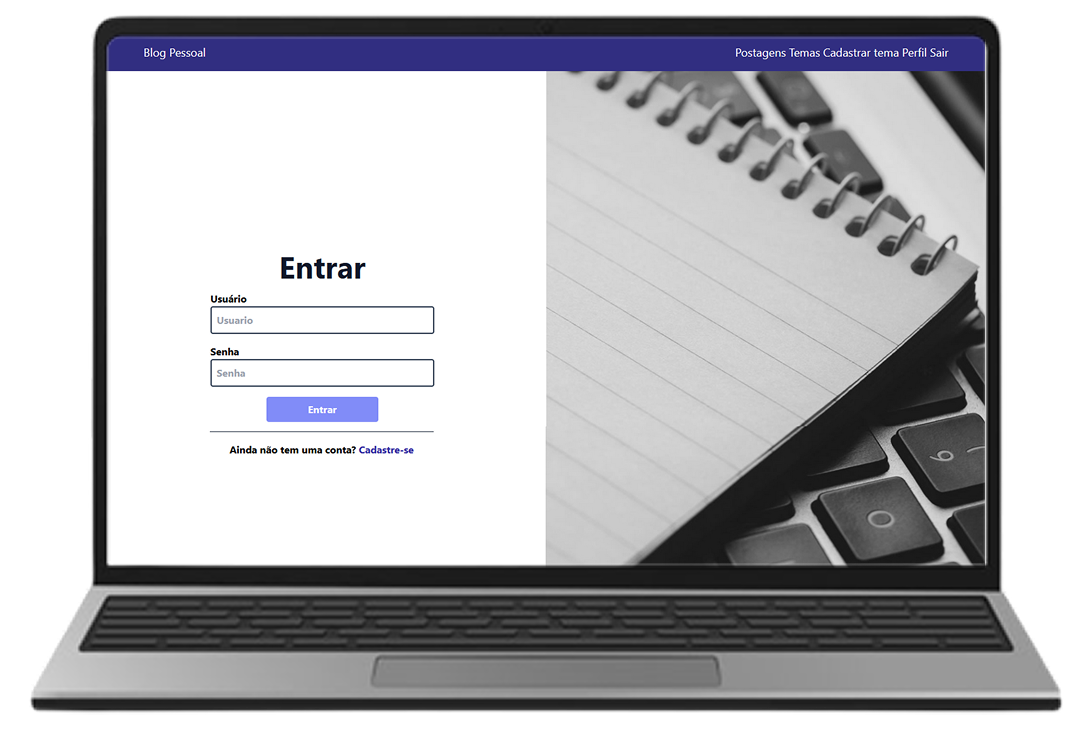
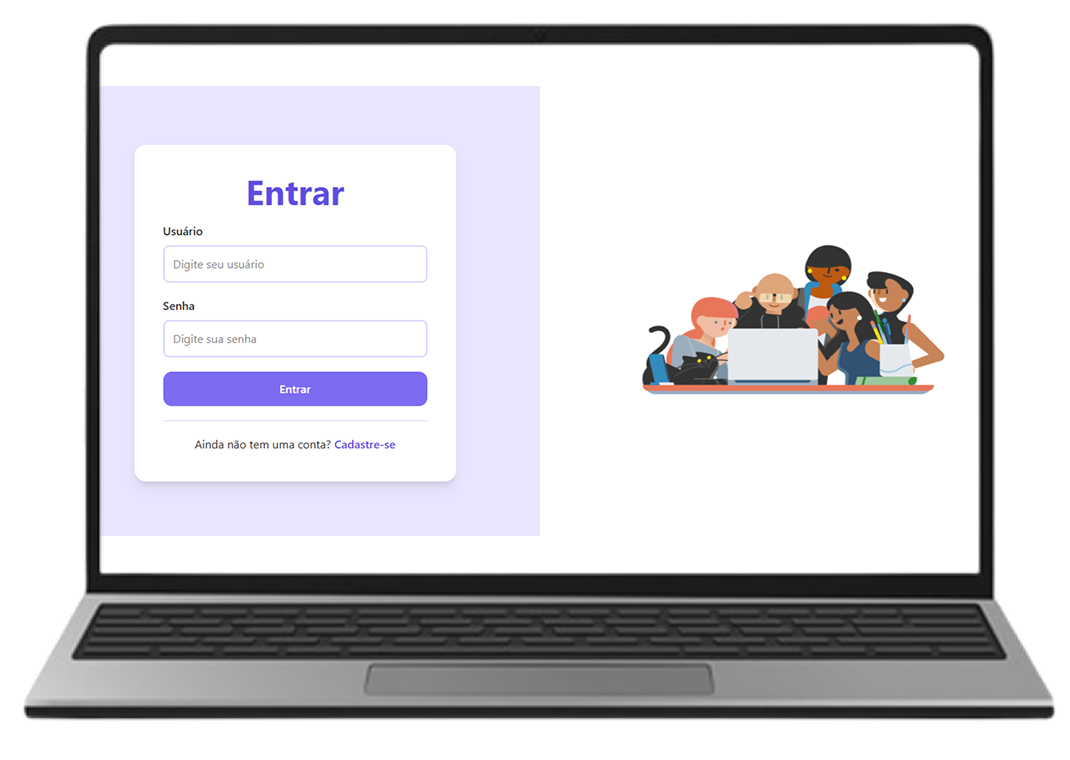
deploy do projeto atualizado

diff --git a/index.html b/index.html
@@ -292,7 +292,8 @@
                                         GitHub
                                     </a>
 
-                                    <a href="#" class="botao" onclick="deployEmDesenvolvimento(event)">
+                                    <a href="https://react-blogpessoal-three.vercel.app/" class="botao" target="_blank"
+                                        rel="noopener noreferrer">
                                         <img src="assets/icons/deploy.png" alt="">
                                         Deploy
                                     </a>
